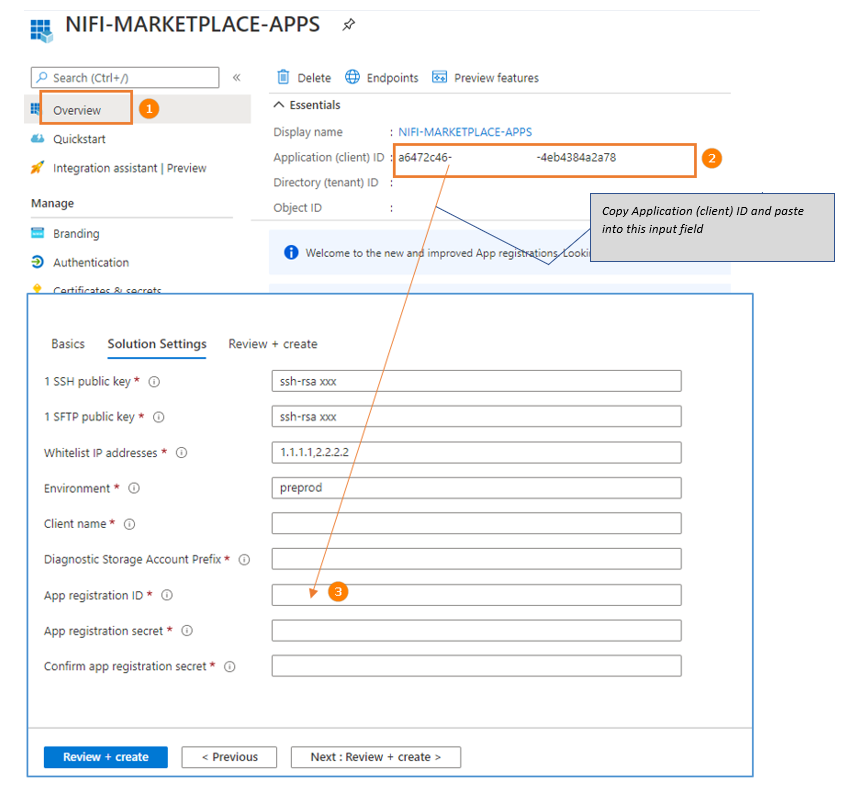
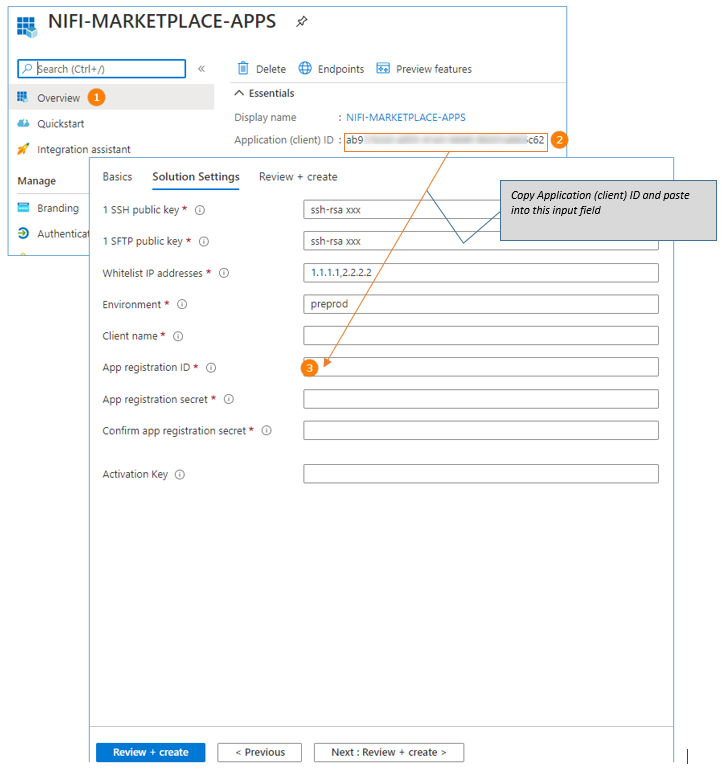
add documents for v1.1.1.0

Changed region(s): [[0.0, 0.0, 1.0, 0.9884], [0.9116, 0.9266, 0.942, 0.9575], [0.7597, 0.0927, 0.7901, 0.1236]]

diff --git a/gitbook/user_manual/ii_pages.md b/gitbook/user_manual/ii_pages.md
@@ -60,7 +60,7 @@ Only IPs from this Whitelist can access to your resources.
 
 You can check from [www.whatismyip.com](https://www.whatismyip.com/).
 
-If you want to input more than one IP, separated them by comma - not include space, Ex. “11.11.11.11,22.22.22.22,33.33.33.33”
+If you want to input more than one IP, separated them by comma - not include space, Ex: 11.11.11.11,22.22.22.22,33.33.33.33
 
 ![ip_1](imgs/ip_1.png "")
 
@@ -78,13 +78,7 @@ The client name combines with environment make your resources unique among subsc
 
 Constraints: Lowercase letters and numbers only, length in range [3-10] letters.
 
-### 6. Diagnostic Storage Account Prefix
-
-This is storage account name that will store diagnostic information of your VMs.
-
-Constraints: Lowercase letters and numbers only, length in range [3-10] letters.
-
-###7. App registration ID
+### 6. App registration ID & secret
 
 This ID use for NiFi configuration, make NiFi connect to Data Lake Storage
 
@@ -109,5 +103,11 @@ Go to Certificate & Secret, create new one.
 ![azure_4](imgs/azure_4.png "")
 
 ![azure_5](imgs/azure_5.png "")
+
+### 7. Activation Key
+
+In case you don’t have it before, please leave it blank.  
+
+Constraints: Letters and numbers only, length [19] letters.  
 
 ---

diff --git a/gitbook/user_manual/i_pages.md b/gitbook/user_manual/i_pages.md
@@ -1,6 +1,6 @@
 # User Manual for Data Platform
 
-###### Version 1.0.0.0
+###### Version 1.1.1.0
 
 ## I. About this document
 
